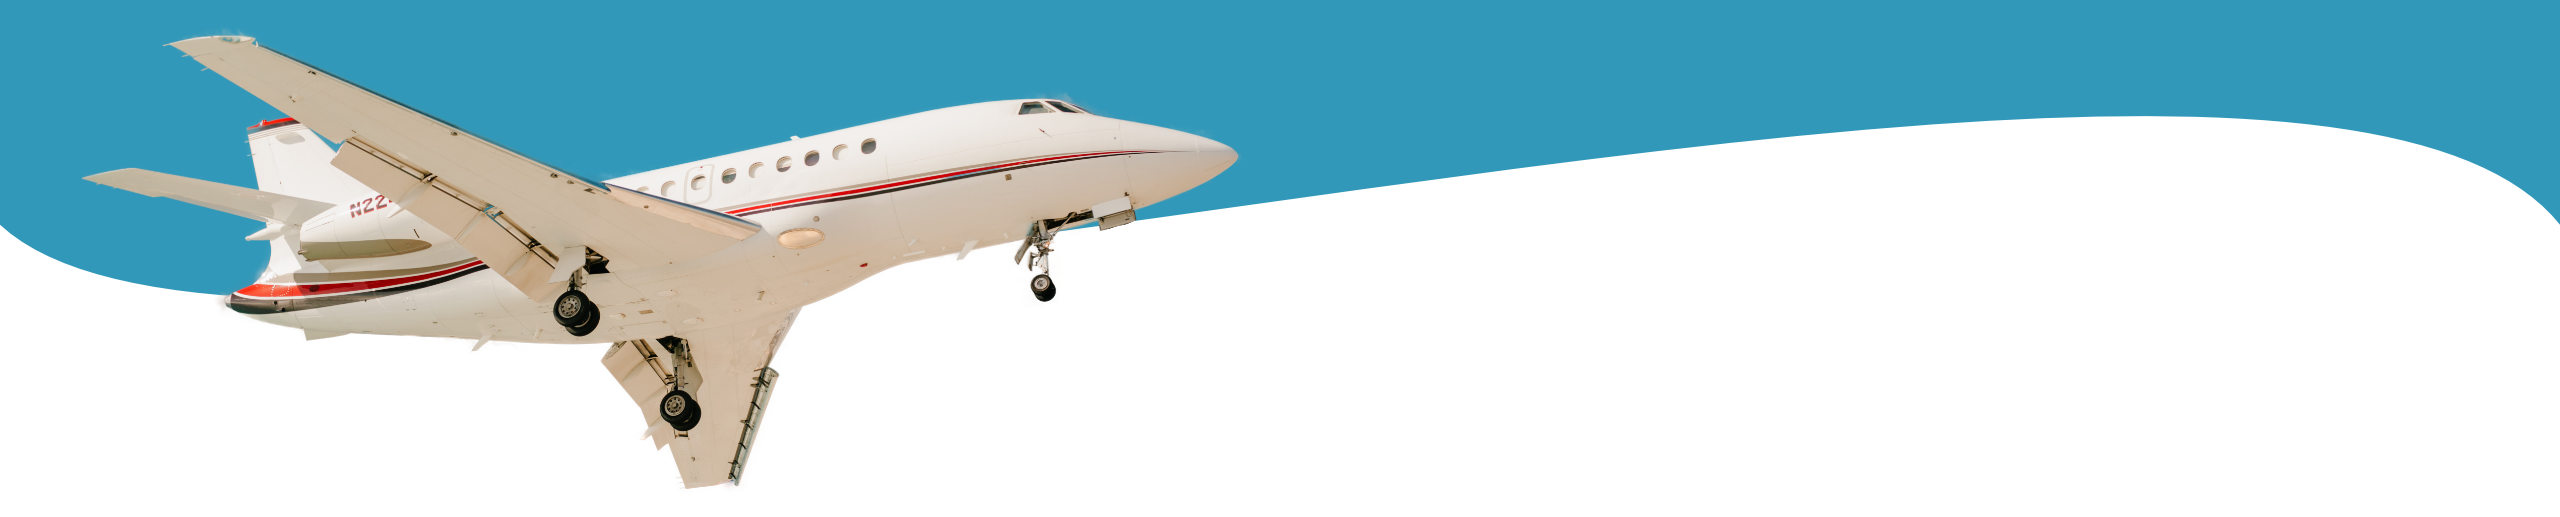
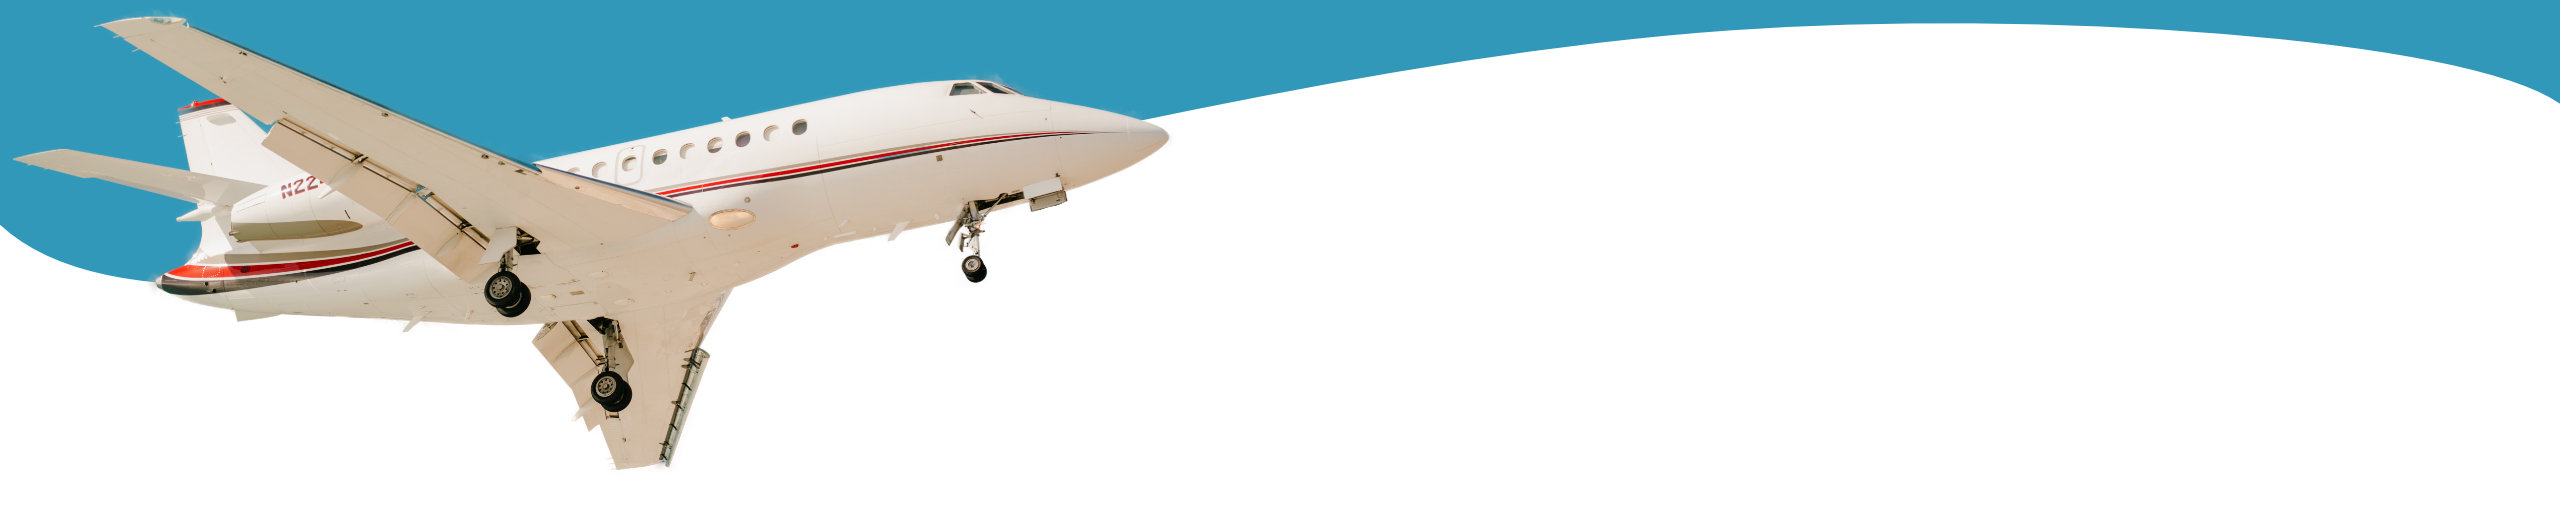
grid layout in progress

Changed region(s): [[0.0, 0.0309, 1.0, 0.9594]]

diff --git a/public/styles/_grid_test.scss b/public/styles/_grid_test.scss
@@ -4,6 +4,7 @@
 
 .body--fullwidth {
 	max-width: 100%;
+	background-color: white;
 	
 	header#header-main {
 		max-width: 100%;
@@ -12,8 +13,10 @@
 	.content-main {
 		//background-color: rgba(yellow,0.2);
 		
-		display: grid;
-		grid-template-columns: minmax(0, 1fr) minmax(0, $max-page-width) minmax(0, 1fr);
+		//@include media-breakpoint-up(md){
+			display: grid;
+			grid-template-columns: minmax(0, 1fr) minmax(0, $max-page-width) minmax(0, 1fr);
+		//}
 		
 		& > * {
 			outline: 1px dotted rgba(aqua,0.5);
@@ -24,12 +27,12 @@
 			//outline: 1px dotted red;
 		}
 		
-		& > .section--fullwidth {
+		& > .section--fullwidth, & > .fullwidth {
 			@include grid-fullwidth;
 			//outline: 1px dotted black;
 		}
 		
-		.section--narrow {
+		.section--narrow, .narrow {
 			max-width: $max-content-width;
 			margin-left: auto;
 			margin-right: auto;
@@ -48,37 +51,41 @@
 			
 		}
 		
-		& > h1, & > h2, & > h3, & > h4, & > h5, & > .h1, & > .h2, & > .h3, & > .h4, & > .h5, p {
+		& > h1, & > h2, & > h3, & > h4, & > h5, & > .h1, & > .h2, & > .h3, & > .h4, & > .h5, & > p {
 			background-color: rgba(pink,0.1);
 			max-width: $max-content-width + $grid-gutter-width * 2;
-			padding-left: $grid-gutter-width;
-			padding-right: $grid-gutter-width;
+			padding-left: $grid-gutter-width * 2;
+			padding-right: $grid-gutter-width * 2;
 			margin-left: auto;
 			margin-right: auto;
 			margin-bottom: $grid-gutter-width;
 		}
 	}
-}
-
-
-.section--text-over-image {
-	display: grid;
-	grid-template-columns: minmax(0, 1fr) minmax(0, $max-page-width) minmax(0, 1fr);
-	& > img {
-		grid-column: 1/4;
-		grid-row: 1/2;
-	}
-	& > div.container-fluid {
-		grid-column: 2/3;
-		grid-row: 1/2;
-		padding-top: $grid-gutter-width*2;
-		padding-bottom: $grid-gutter-width*2;
-		.display-1 {
-			text-align: center;
-			font-weight: 900;
-			color: black;
-			font-size: clamp(2em, 7vw, 100px);
+	
+	
+	.section--text-over-image {
+		@include media-breakpoint-up(md){
+			display: grid;
+			grid-template-columns: minmax(0, 1fr) minmax(0, $max-page-width) minmax(0, 1fr);
+		}
+		& > img {
+			grid-column: 1/4;
+			grid-row: 1/2;
+		}
+		& > div.container-fluid {
+			grid-column: 2/3;
+			grid-row: 1/2;
+			margin-top: $grid-gutter-width*2;
+			margin-bottom: $grid-gutter-width*2;
+			.display-1 {
+				text-align: center;
+				font-weight: 900;
+				color: black;
+				font-size: clamp(2em, 7vw, 100px);
+			}
 		}
 	}
 }
+
+
 
